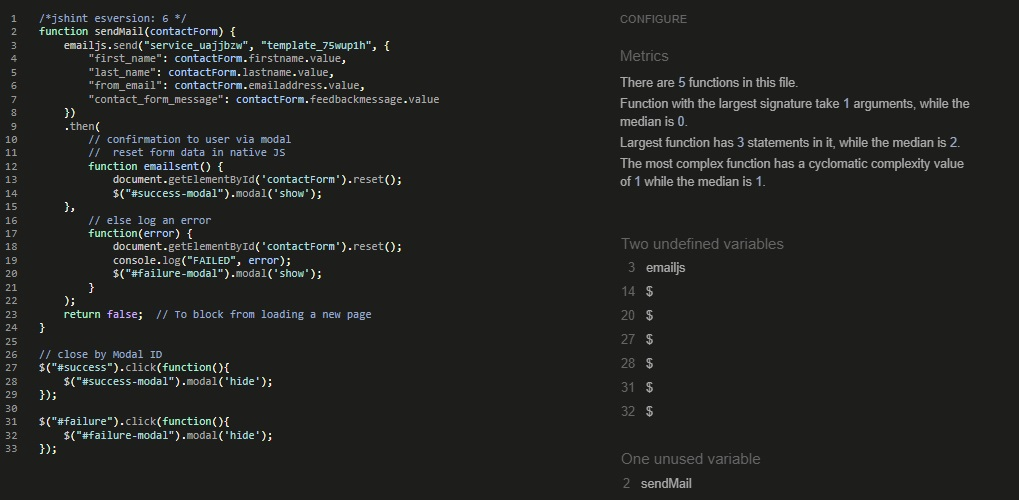
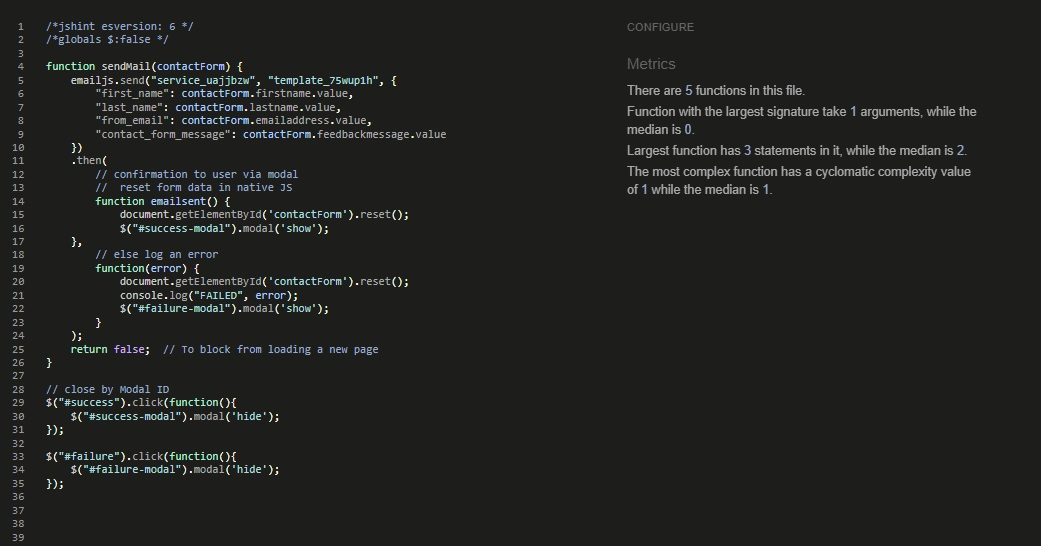
fix: alt decsription to quiz page, adjust headers and text align.

diff --git a/quiz.html b/quiz.html
@@ -81,13 +81,13 @@
                     <div class="quizmain">
                         <h2 id="question-time-counter" class="text-end">Time left:</h2>
                         <br>
-                        <h1>The Great</h1>
-                        <img class="img img-responsive" src="assets/images/autism-mod.png">
+                        <h2 class="text-left">The Great</h2>
+                        <img class="img img-responsive" alt="Autism logo" aria-label="the word Autism in multicolor" src="assets/images/autism-mod.png">
                         <h2>Quiz</h2>
                         <div class="myquiz">
-                            <h2 id="question-number" class="center-content">question number placeholder text</h2>
+                            <h2 id="question-number" class="text-center">question number placeholder text</h2>
                             <br>
-                            <h3 id="question" class="center-content">question placeholder text</h3>
+                            <h3 id="question" class="text-center">question placeholder text</h3>
                             <div id="answer-btns">
                                 <button class="quizBtn">placeholder answer 1</button>
                                 <button class="quizBtn">placeholder answer 2</button>

diff --git a/assets/js/email.js b/assets/js/email.js
@@ -1,4 +1,6 @@
 /*jshint esversion: 6 */
+/*globals $:false */
+
 function sendMail(contactForm) {
     emailjs.send("service_uajjbzw", "template_75wup1h", {
         "first_name": contactForm.firstname.value,

diff --git a/assets/js/scripts.js b/assets/js/scripts.js
@@ -1,4 +1,5 @@
 /* jshint esversion: 6 */
+/*globals $:false */
 
 // Toggle panel based on button click based on div ID
 $(document).ready(function(){

diff --git a/assets/css/style.css b/assets/css/style.css
@@ -274,6 +274,10 @@ li {
     text-align: right;
 }
 
+.text-left {
+    text-align: left !important;
+}
+
 .myquiz {
     padding: 20px 0;
 }

diff --git a/README.md b/README.md
@@ -293,12 +293,17 @@ This is my website
 ### Quiz Page
 * Quiz
     * A selection of 12 multiple choice questions selected at random from a bank of 100 questions.
-    * Each question is presented one at a time and with a 20 second timer. 20 seconds is sufficient to give thinking time whilst also moving the session along.
-    * A total score is calculated and presented back to the user. I decided not to give an enhanced score for a quick answer as speed is not the issue. The importance of teh questions is to test and impart knowledge. 
+    * Each question is presented one at a time and with a 30 second timer. 30 seconds is sufficient to give thinking time whilst also moving the session along. at 10 seconds, the timer turns red.
+    * If the time runs out, the correct answer is displayed but no poimts awarded.
+    * A total score is calculated and presented back to the user, together with a score comment. I decided not to give an enhanced score for a quick answer as speed is not the issue. The importance of the questions is to test and impart knowledge. 
     * 
     <br>    
     <details><summary>Quiz Page</summary>
-    <img src="docs/readme_images/quiz-image.jpg">
+    <img src="docs/readme_images/quiz_page.jpg">
+    </details>
+    <br>    
+    <details><summary>Quiz Page Details</summary>
+    <img src="docs/readme_images/quiz_details_page.jpg">
     </details>
 
 ### Contact Page
@@ -438,7 +443,7 @@ The third party nanogallery.css was also checked as I had made some changes.
 
 -   Main js file.
     <details><summary>scripts.js</summary>
-    <img src="docs/testing/ws-js-check.jpg">
+    <img src="docs/testing/jshint-scripts-js.jpg">
     </details>
     <br> 
 -   Contains email specific js functionality.
